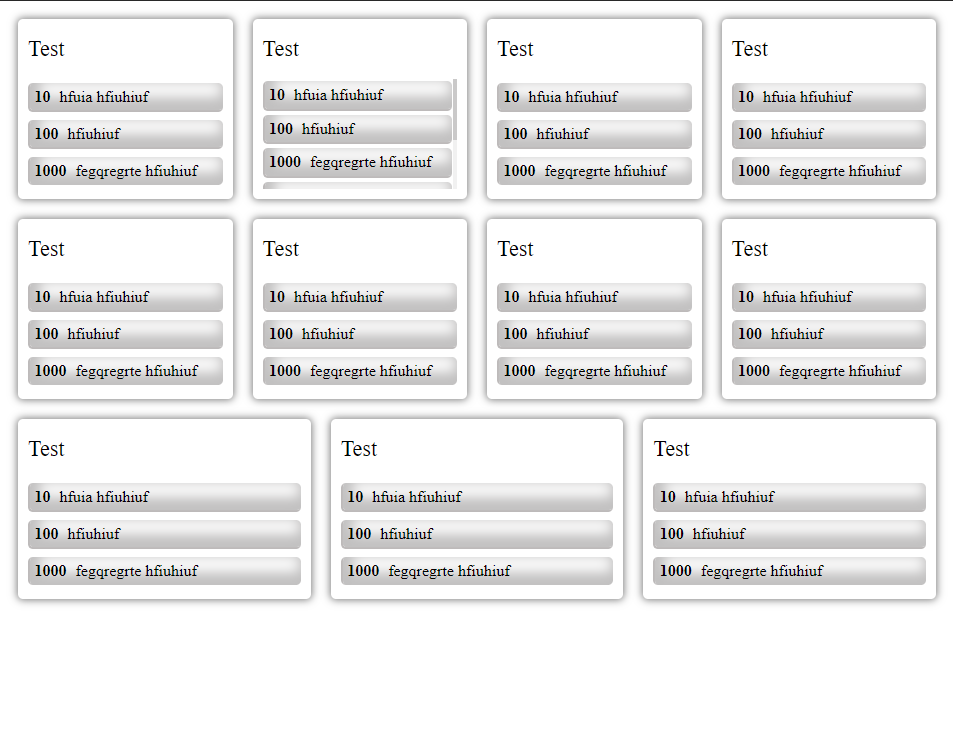
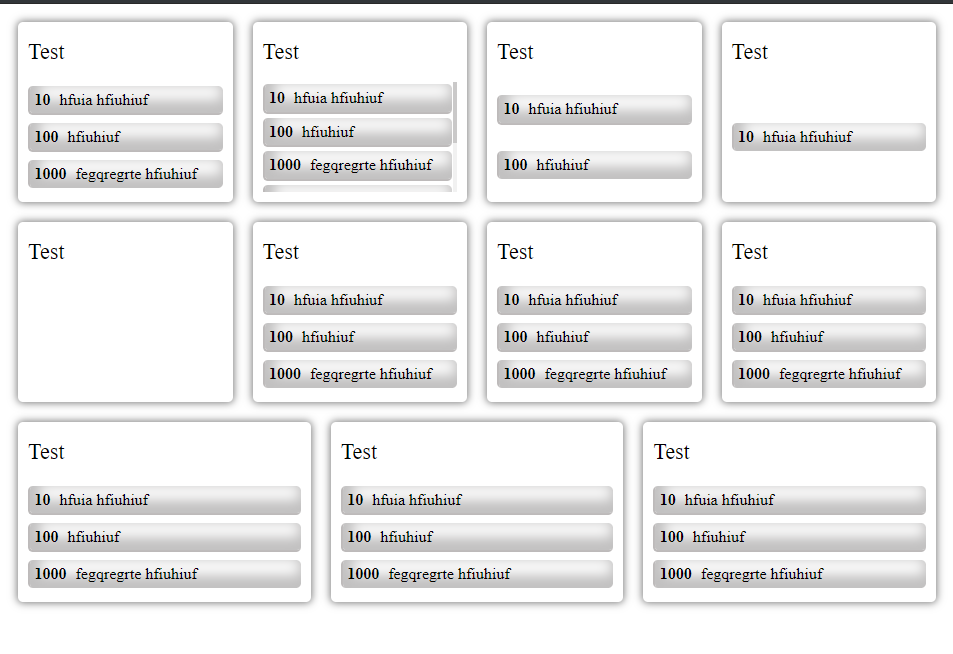
result image update

diff --git a/projects/ras/tile/src/index.html b/projects/ras/tile/src/index.html
@@ -177,10 +177,6 @@
                         <span class="count">100</span>
                         <span class="info">hfiuhiuf</span>
                     </div>
-                    <div class="tile-info">
-                        <span class="count">1000</span>
-                        <span class="info">fegqregrte hfiuhiuf</span>
-                    </div>
                 </div>
             </div>
         </div>
@@ -194,14 +190,6 @@
                         <span class="count">10</span>
                         <span class="info">hfuia hfiuhiuf</span>
                     </div>
-                    <div class="tile-info">
-                        <span class="count">100</span>
-                        <span class="info">hfiuhiuf</span>
-                    </div>
-                    <div class="tile-info">
-                        <span class="count">1000</span>
-                        <span class="info">fegqregrte hfiuhiuf</span>
-                    </div>
                 </div>
             </div>
         </div>
@@ -211,18 +199,7 @@
                     Test
                 </div>
                 <div class="tile-infos">
-                    <div class="tile-info">
-                        <span class="count">10</span>
-                        <span class="info">hfuia hfiuhiuf</span>
-                    </div>
-                    <div class="tile-info">
-                        <span class="count">100</span>
-                        <span class="info">hfiuhiuf</span>
-                    </div>
-                    <div class="tile-info">
-                        <span class="count">1000</span>
-                        <span class="info">fegqregrte hfiuhiuf</span>
-                    </div>
+                   
                 </div>
             </div>
         </div>
